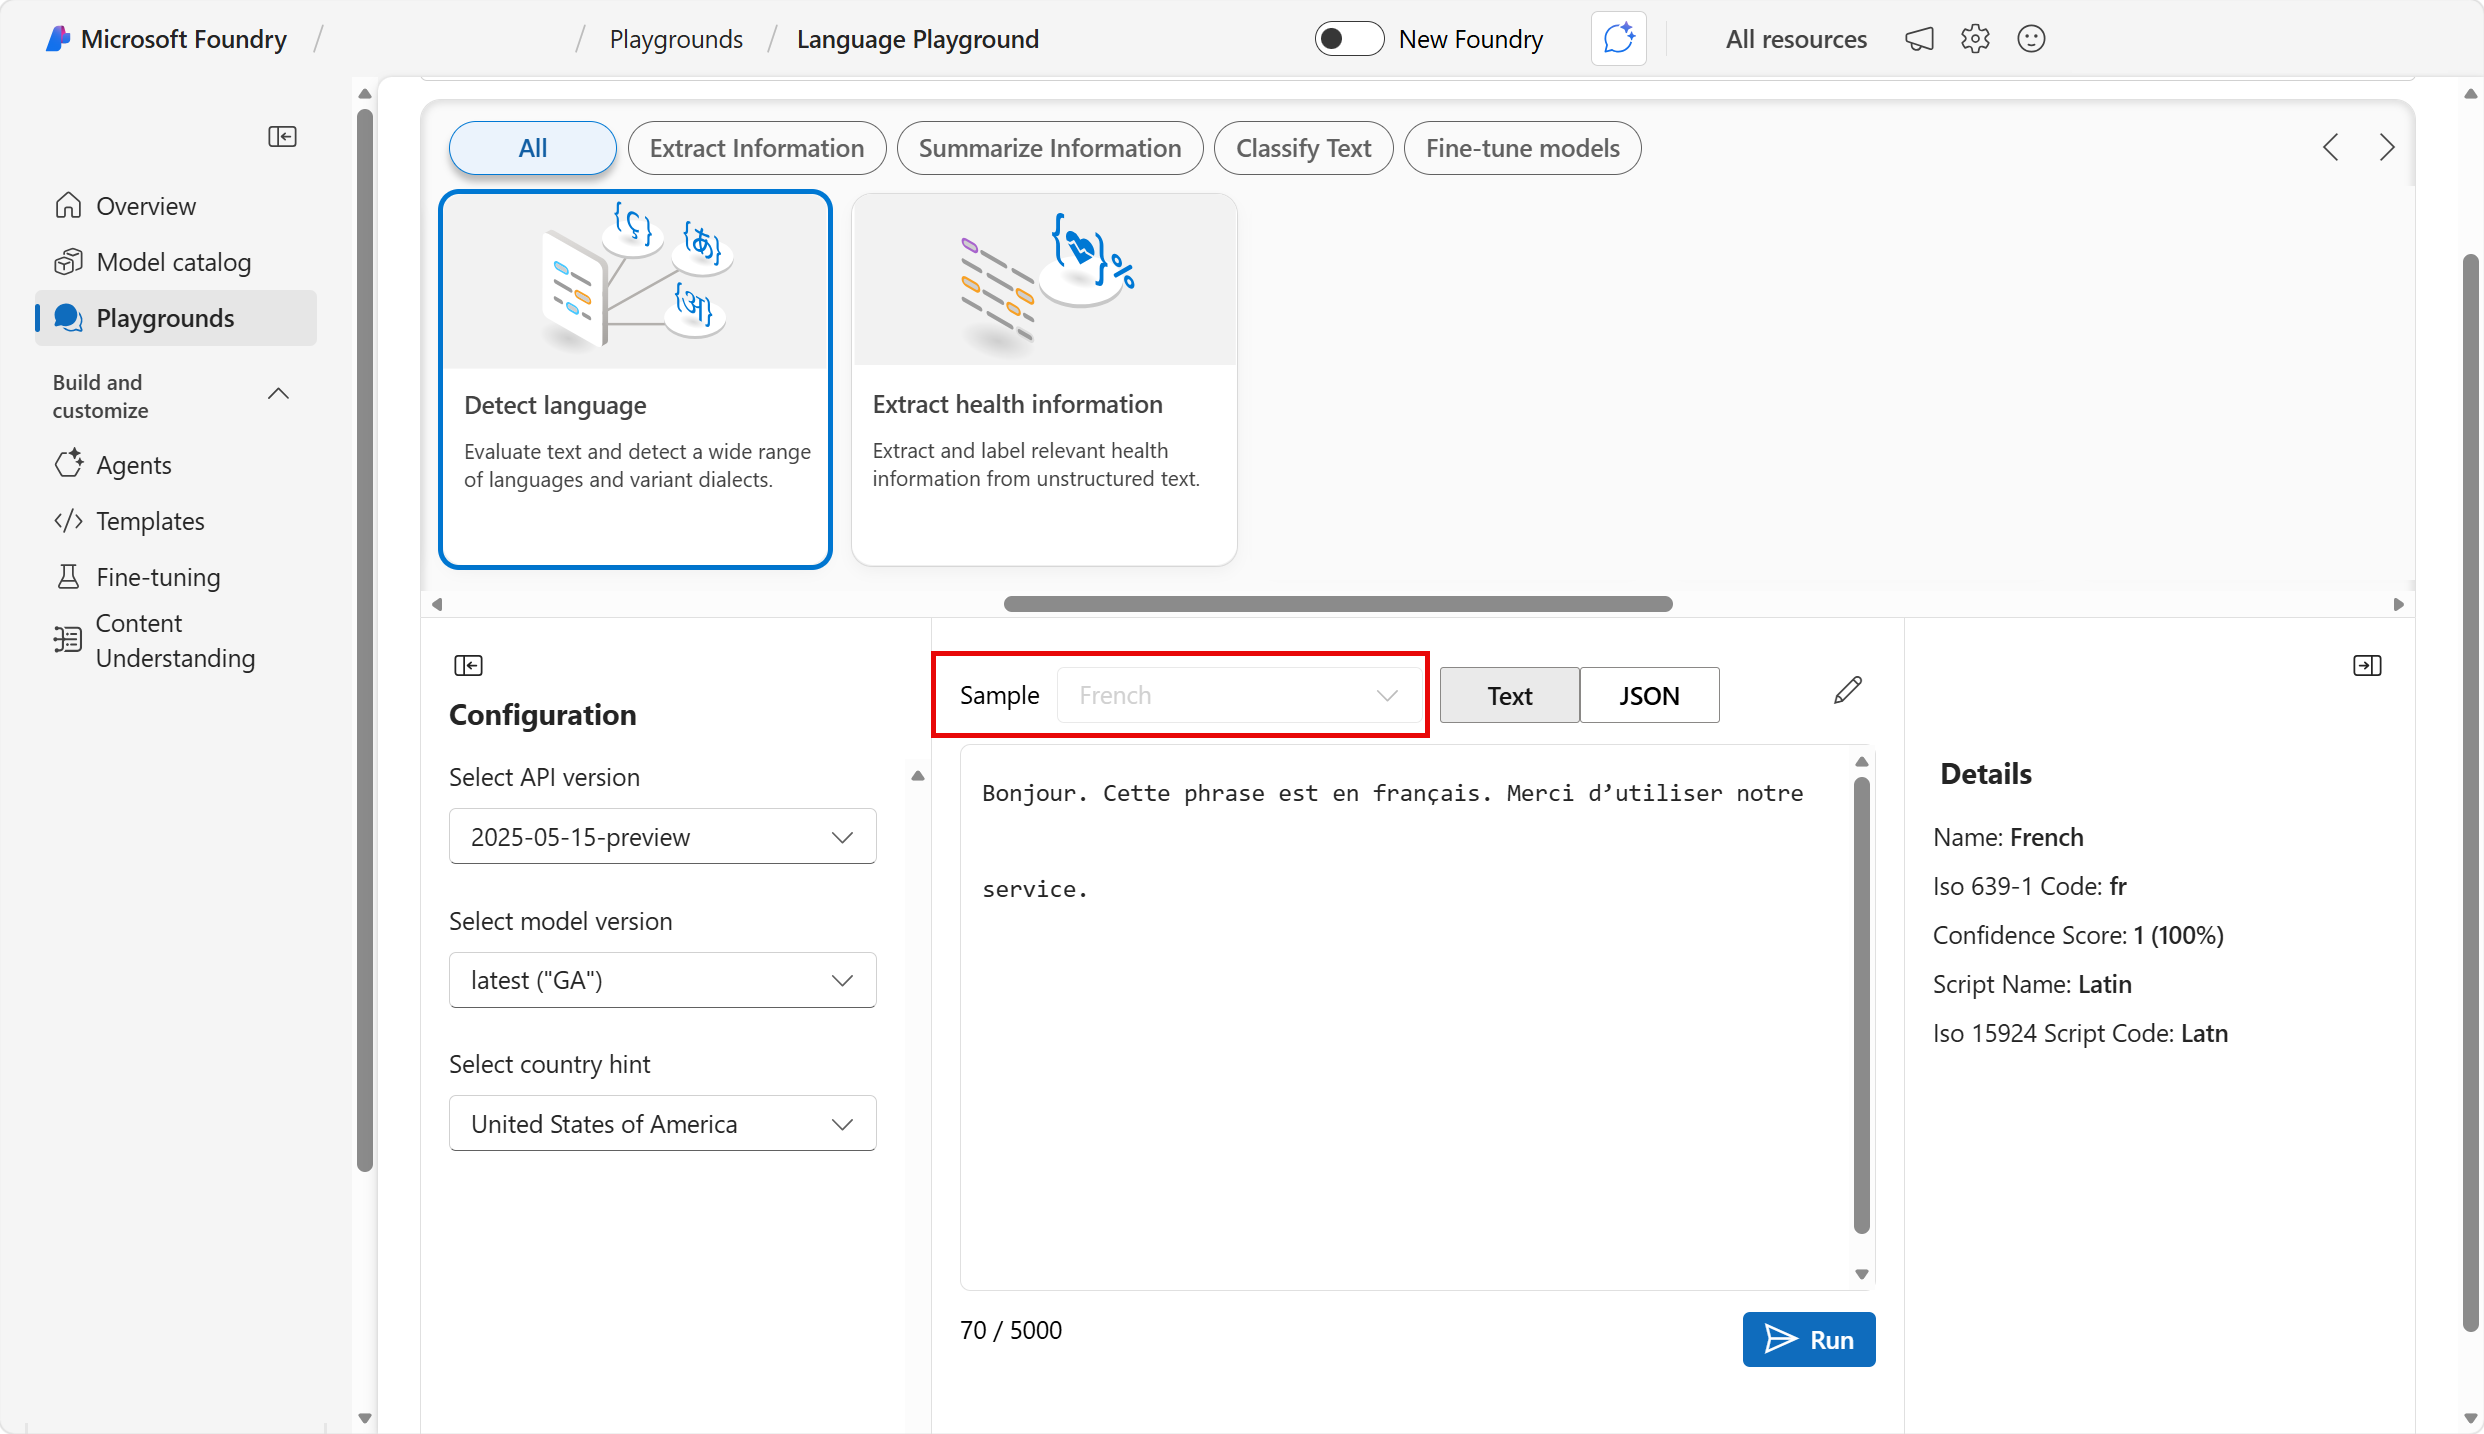
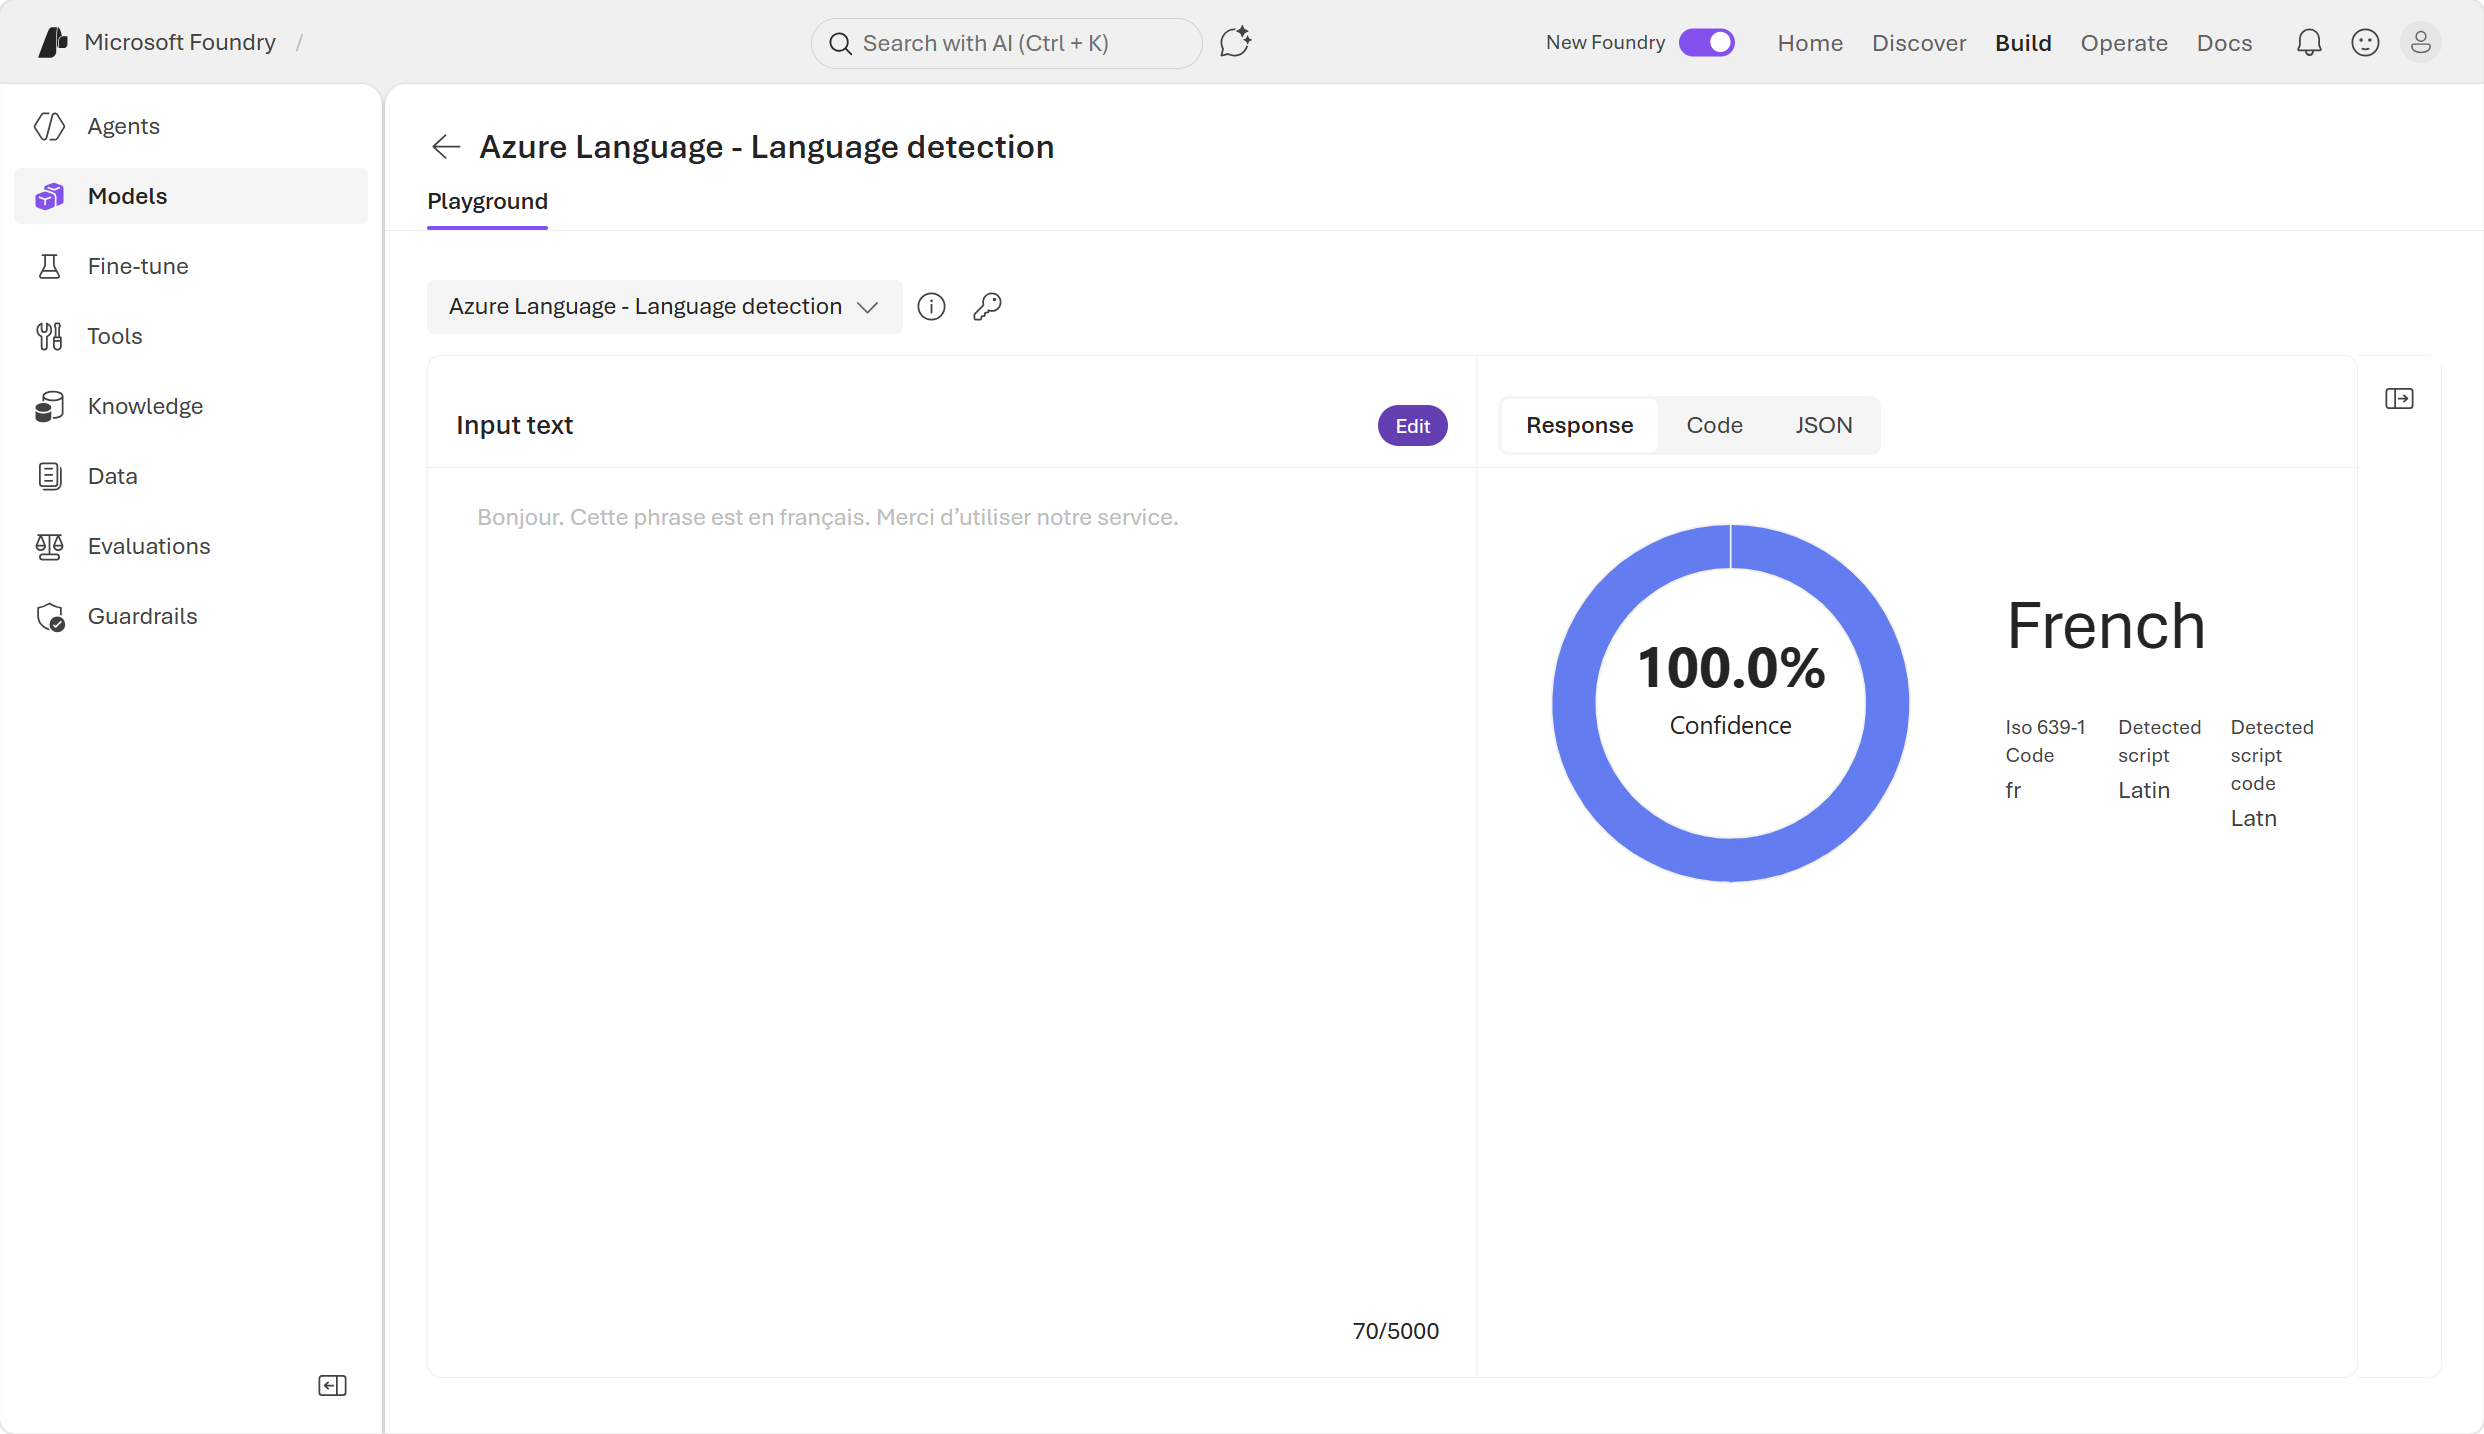
Update with portal changes.

diff --git a/Instructions/Exercises/03b-text-analysis.md b/Instructions/Exercises/03b-text-analysis.md
@@ -15,9 +15,7 @@ In this exercise, you'll use Microsoft Foundry, Microsoft's platform for creatin
 
 Foundry offers two approaches to text analysis: general-purpose AI models that handle a broad range of tasks through natural language prompts, and purpose-built language tools that return structured, deterministic results for specific tasks. By exploring both, you'll gain a clearer understanding of when to use each approach.
 
-In the first part of this exercise, you'll use a general purpose AI model in the *new* Foundry portal's chat playground.
-
-In the second part of this exercise, you'll explore Azure Language in Foundry tools in the *classic* Foundry portal. 
+In the first part of this exercise, you'll use a general purpose AI model in the *new* Foundry portal's chat playground. In the second part of this exercise, you'll explore some features of Azure Language in Foundry tools. 
 
 This exercise takes approximately **20** minutes.
 
@@ -129,12 +127,11 @@ Summarization is a way to distill the main points in a document into a shorter a
 
 While a large language model that's trained for general generative AI workloads can often do a great job of text analysis, sometimes a more specialized tool can be used by an agent to get more predictable results.
 
->**Note**: This section uses a standalone language analysis tool associated with the **classic** Foundry portal. The Azure Language service provides purpose-built analyzers that use statistical techniques to return structured, deterministic results — ideal for consistent output in automated pipelines.
+The Azure Language service provides purpose-built analyzers that use statistical techniques to return structured, deterministic results — ideal for consistent output in automated pipelines.
 
-1. Navigate to the **classic** Foundry portal by changing the toggle at the top of the screen. If asked for feedback, select *continue without feedback*.  
-2. In the *classic* Foundry portal, navigate to the left-side menu and select **Playgrounds**. Then select **Try the Language playground**. 
+1. Make sure you are still in the **new** Foundry portal. In the *new* Foundry portal, navigate to the left-side menu and select **Build**. Then select **Models**, and **AI Services**. 
 
-    ![Screenshot of the Language playground in the classic Foundry playground.](./media/language-playground.png)
+    ![Screenshot of the Language features listed on the new Foundry models page.](./media/foundry-ai-services.png)
 
 The Language Playground app uses statistical text analysis techniques to perform two common NLP tasks: language detection and personally identifiable information (PII) redaction.
 
@@ -142,12 +139,12 @@ The Language Playground app uses statistical text analysis techniques to perform
 
 In scenarios where text could potentially be in one of multiple languages, the first step in an analysis workflow is often to determine the primary language so the text can be routed to the most appropriate model or agent for the subsequent processing.
 
-1. In the Language Playground, select the **Language detection** analyzer.
+1. From the list of AI services, select the **Azure Language - Language detection** analyzer.
 2. In the **Input text** list, select one of the provided sample documents. Then use the **Detect** button to detect the language in which the sample is written.
 
-    ![Screenshot of a detected language in the Language Playground](./media/text-04.png)
+    ![Screenshot of a detected language in the Playground](./media/text-04.png)
 
-3. After reviewing the detected language details, click on the **Edit** pencil icon to make the input text editable again. Now you can:
+3. After reviewing the detected language details, click on the **Edit** button icon to make the input text editable again. Now you can:
     - Select another sample.
     - Type your own text.
     - Upload a text file.
@@ -174,16 +171,18 @@ In scenarios where text could potentially be in one of multiple languages, the f
 
     > **Tip**: You can use the [Bing Translator](https://www.bing.com/translator){:target="_blank"} at `https://www.bing.com/translator` to generate text in languages you don't speak!
 
+5. Return to the list of AI services when you are done experimenting. You can click on the back button at the top of the playground screen.
+
 ### Identify PII in text
 
 To comply with privacy policies and laws, organizations often need to detect and redact personally identifiable information (PII) such as names, addresses, phone numbers, email addresses, and other personal details.
 
-1. In the Language Playground, select the **Text PII extraction** analyzer.
+1. In the list of AI services, select the **Azure Language - Text PII extraction** analyzer.
 2. In the **Input text** list, select one of the provided sample documents. Then use the **Detect** button to detect PII values in the text.
 
-    ![Screenshot of a detected PII in the Language Playground](./media/text-05.png)
+    ![Screenshot of a detected PII in the Playground](./media/text-05.png)
 
-3. After reviewing the detected PII details, click on the **Edit** pencil icon to make the input text editable again. Now you can:
+3. After reviewing the detected PII details, click on the **Edit** button to make the input text editable again. Now you can:
     - Select another sample.
     - Type your own text.
     - Upload a text file.
@@ -203,52 +202,54 @@ To comply with privacy policies and laws, organizations often need to detect and
 
     > **Note**: The Language Playground app uses a combination of statistical analysis and regular expression matching to detect potential PII fields. It's <u>not</u> designed as a production-level tool and is likely to detect false positives and fail to detect PII fields in some cases.
 
+
 ### Review the sample code
 
 Foundry often provides sample code for many Azure Language capabilities. You can use the sample code to begin creating your own client application. 
 
-1. Select the **View code** tab to view sample code for PII identification. Below is the same sample code in Python for your reference:
+1. Select the **Code** tab to the  to view sample code for PII identification. 
+
+    ![Screenshot of the Code tab open in the Playground.](./media/text-05-code.png)
+
+>**Tip**: Below is the same sample code in Python for your reference. You can copy the code and run it in your preferred Python development environment - for example Visual Studio Code. You will need to create environment variables for your Azure Language endpoint and key; which you can find in the code sample window.
 
 ```python
 
-key = "paste-your-key-here"
-endpoint = "paste-your-endpoint-here"
+    key = "paste-your-key-here"
+    endpoint = "paste-your-endpoint-here"
 
-from azure.ai.textanalytics import TextAnalyticsClient
-from azure.core.credentials import AzureKeyCredential
+    from azure.ai.textanalytics import TextAnalyticsClient
+    from azure.core.credentials import AzureKeyCredential
 
-# Authenticate the client using your key and endpoint 
-def authenticate_client():
-    ta_credential = AzureKeyCredential(key)
-    text_analytics_client = TextAnalyticsClient(
-            endpoint=endpoint, 
-            credential=ta_credential)
-    return text_analytics_client
+    # Authenticate the client using your key and endpoint 
+    def authenticate_client():
+        ta_credential = AzureKeyCredential(key)
+        text_analytics_client = TextAnalyticsClient(
+                endpoint=endpoint, 
+                credential=ta_credential)
+        return text_analytics_client
 
-client = authenticate_client()
+    client = authenticate_client()
 
-# Example method for detecting sensitive information (PII) from text 
-def pii_recognition_example(client):
-    documents = [
-        "The employee's SSN is 859-98-0987.",
-        "The employee's phone number is 555-555-5555."
-    ]
-    response = client.recognize_pii_entities(documents, language="en")
-    result = [doc for doc in response if not doc.is_error]
-    for doc in result:
-        print("Redacted Text: {}".format(doc.redacted_text))
-        for entity in doc.entities:
-            print("Entity: {}".format(entity.text))
-            print("	Category: {}".format(entity.category))
-            print("	Confidence Score: {}".format(entity.confidence_score))
-            print("	Offset: {}".format(entity.offset))
-            print("	Length: {}".format(entity.length))
-pii_recognition_example(client)
+    # Example method for detecting sensitive information (PII) from text 
+    def pii_recognition_example(client):
+        documents = [
+            "$documents"
+        ]
+        response = client.recognize_pii_entities(documents, language="en")
+        result = [doc for doc in response if not doc.is_error]
+        for doc in result:
+            print("Redacted Text: {}".format(doc.redacted_text))
+            for entity in doc.entities:
+                print("Entity: {}".format(entity.text))
+                print("	Category: {}".format(entity.category))
+                print("	Confidence Score: {}".format(entity.confidence_score))
+                print("	Offset: {}".format(entity.offset))
+                print("	Length: {}".format(entity.length))
+    pii_recognition_example(client)
 
 
 ```
-
-> **Tip**: You can copy the code and run it in your preferred Python development environment - for example Visual Studio Code. You will need to create environment variables for your Azure Language endpoint and key; which you can find in the code sample window.
 
 ## Clean up
 
